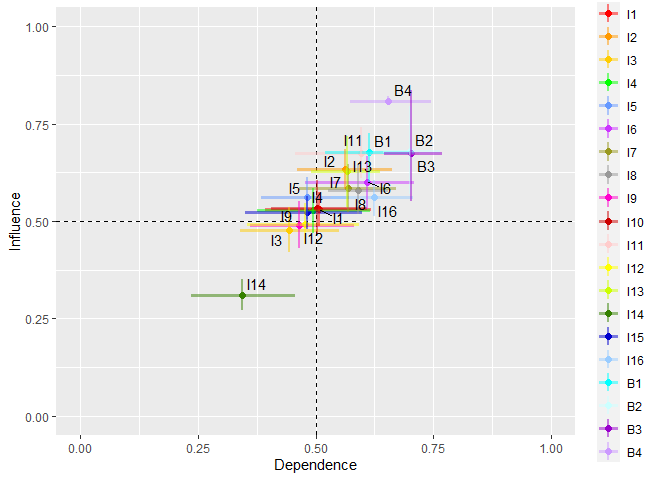
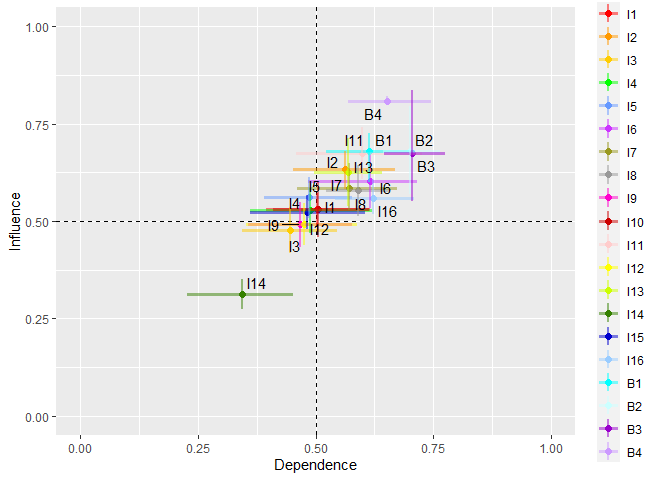
Update

Changed region(s): [[0.375, 0.2812, 0.625, 0.5312], [0.2812, 0.5625, 0.4375, 0.625], [0.5312, 0.1562, 0.625, 0.25]]

diff --git a/README.md b/README.md
@@ -141,16 +141,16 @@ The result obtained is a data.frame of 312 rows. The first ten items are display
 ``` r
 result$DirectEffects[1:10,]
 #>    From  To  Mean     UCI p.value
-#> 1    I1  I2 0.525 0.64500   0.611
-#> 2    I1  I3 0.450 0.59000   0.298
-#> 3    I1  I4 0.525 0.66000   0.626
+#> 1    I1  I2 0.525 0.65000   0.613
+#> 2    I1  I3 0.450 0.58500   0.319
+#> 3    I1  I4 0.525 0.66000   0.622
 #> 4    I1  I5 0.465 0.63500   0.379
-#> 5    I1  I6 0.645 0.80500   0.881
-#> 6    I1  I7 0.815 0.87500   1.000
-#> 7    I1  I8 0.580 0.69000   0.841
-#> 8    I1  I9 0.490 0.63500   0.464
-#> 9    I1 I10 0.560 0.71000   0.721
-#> 10   I1 I11 0.525 0.70025   0.572
+#> 5    I1  I6 0.645 0.80500   0.861
+#> 6    I1  I7 0.815 0.87000   1.000
+#> 7    I1  I8 0.580 0.69000   0.856
+#> 8    I1  I9 0.490 0.64000   0.467
+#> 9    I1 I10 0.560 0.71025   0.751
+#> 10   I1 I11 0.525 0.69500   0.584
 ```
 
 Any result that contains a NA value in the UCI and p.value fields indicates that all occurrences are equal or that the value is unique. Therefore, bootstrapping is not done.
@@ -178,17 +178,17 @@ Complete graphs only make use of the `CE` parameter. Here is an example:
 ``` r
 result <- directEffects(CE = CC, thr = 0.5, reps = 1000)
 result$DirectEffects[1:10,]
-#>    From  To  Mean     UCI p.value
-#> 1    I1  I2 0.525 0.65000   0.598
-#> 2    I1  I3 0.450 0.60000   0.294
-#> 3    I1  I4 0.525 0.67000   0.596
-#> 4    I1  I5 0.465 0.63500   0.362
-#> 5    I1  I6 0.645 0.80000   0.866
-#> 6    I1  I7 0.815 0.88000   1.000
-#> 7    I1  I8 0.580 0.69000   0.873
-#> 8    I1  I9 0.490 0.62525   0.449
-#> 9    I1 I10 0.560 0.71000   0.728
-#> 10   I1 I11 0.525 0.69500   0.598
+#>    From  To  Mean   UCI p.value
+#> 1    I1  I2 0.525 0.650   0.619
+#> 2    I1  I3 0.450 0.595   0.320
+#> 3    I1  I4 0.525 0.655   0.613
+#> 4    I1  I5 0.465 0.640   0.362
+#> 5    I1  I6 0.645 0.810   0.875
+#> 6    I1  I7 0.815 0.875   1.000
+#> 7    I1  I8 0.580 0.695   0.829
+#> 8    I1  I9 0.490 0.645   0.459
+#> 9    I1 I10 0.560 0.705   0.731
+#> 10   I1 I11 0.525 0.690   0.593
 ```
 
 ## bootMargin()
@@ -231,48 +231,48 @@ The results obtained are the data.frame `$byCause` and `$byEffect`, their values
 ``` r
 result$byCause
 #>    Var      Mean       LCI       UCI p.value
-#> 1   I1 0.5296587 0.4871316 0.5736908   0.160
-#> 2   I2 0.6336275 0.5826294 0.6836996   0.000
-#> 3   I3 0.4776501 0.4193165 0.5368480   0.530
-#> 4   I4 0.5291279 0.4687461 0.5842244   0.446
-#> 5   I5 0.5609690 0.5058377 0.6118772   0.046
-#> 6   I6 0.6010704 0.5315787 0.6674565   0.018
-#> 7   I7 0.5853538 0.5234510 0.6460322   0.012
-#> 8   I8 0.5791188 0.5170694 0.6428289   0.050
-#> 9   I9 0.4894543 0.4303507 0.5510777   0.748
-#> 10 I10 0.5331852 0.4656579 0.6038704   0.412
-#> 11 I11 0.6746935 0.6097968 0.7405329   0.000
-#> 12 I12 0.4917164 0.4393801 0.5446798   0.796
-#> 13 I13 0.6269254 0.5359386 0.7168465   0.024
-#> 14 I14 0.3098173 0.2723264 0.3506358   0.000
-#> 15 I15 0.5225843 0.4789515 0.5642797   0.308
-#> 16 I16 0.5600878 0.5133052 0.6061643   0.024
-#> 17  B1 0.6774633 0.6000000 0.7250000   0.556
-#> 18  B2 0.6784500 0.5700000 0.7950000   0.082
-#> 19  B3 0.6736267 0.5500000 0.8350000   0.066
-#> 20  B4 0.8083317 0.8000000 0.8200000   0.070
+#> 1   I1 0.5298835 0.4873077 0.5729064   0.206
+#> 2   I2 0.6330834 0.5828925 0.6794759   0.000
+#> 3   I3 0.4770524 0.4169472 0.5344554   0.518
+#> 4   I4 0.5279723 0.4687206 0.5854229   0.404
+#> 5   I5 0.5614070 0.5072646 0.6134444   0.056
+#> 6   I6 0.6016456 0.5325409 0.6687796   0.024
+#> 7   I7 0.5853354 0.5284503 0.6479247   0.012
+#> 8   I8 0.5791373 0.5115482 0.6435753   0.054
+#> 9   I9 0.4908606 0.4330477 0.5495088   0.670
+#> 10 I10 0.5302450 0.4583867 0.5999282   0.404
+#> 11 I11 0.6735549 0.6078158 0.7419006   0.000
+#> 12 I12 0.4925269 0.4391722 0.5458161   0.732
+#> 13 I13 0.6250923 0.5375921 0.7131689   0.020
+#> 14 I14 0.3119004 0.2728121 0.3516346   0.000
+#> 15 I15 0.5232475 0.4786997 0.5665680   0.306
+#> 16 I16 0.5593589 0.5164550 0.6070651   0.034
+#> 17  B1 0.6787567 0.6000000 0.7250000   0.592
+#> 18  B2 0.6791900 0.5700000 0.7950000   0.058
+#> 19  B3 0.6747667 0.5500000 0.8350000   0.062
+#> 20  B4 0.8082400 0.8000000 0.8200000   0.076
 result$byEffect
 #>    Var      Mean       LCI       UCI p.value
-#> 1   I1 0.5075417 0.3925282 0.6183331   0.982
-#> 2   I2 0.5622069 0.4604603 0.6623468   0.328
-#> 3   I3 0.4442393 0.3392406 0.5503828   0.336
-#> 4   I4 0.4951967 0.3758149 0.6159153   0.870
-#> 5   I5 0.4824950 0.3843434 0.5711512   0.774
-#> 6   I6 0.6083689 0.4775685 0.7079872   0.282
-#> 7   I7 0.5684678 0.4641199 0.6710205   0.242
-#> 8   I8 0.5898343 0.5264458 0.6546679   0.032
-#> 9   I9 0.4654669 0.3613262 0.5820310   0.572
-#> 10 I10 0.5030792 0.4061456 0.6093470   0.938
-#> 11 I11 0.5962588 0.4575687 0.7191798   0.302
-#> 12 I12 0.4773452 0.3538320 0.5918107   0.664
-#> 13 I13 0.5676367 0.4899987 0.6377000   0.130
-#> 14 I14 0.3447400 0.2356860 0.4566803   0.024
-#> 15 I15 0.4815728 0.3507238 0.5982825   0.812
-#> 16 I16 0.6230710 0.5334516 0.7064292   0.022
-#> 17  B1 0.6130150 0.5201887 0.7083659   0.046
-#> 18  B2 0.7000167 0.6426191 0.7645830   0.000
-#> 19  B3 0.7032001 0.6460223 0.7687717   0.000
-#> 20  B4 0.6538002 0.5732851 0.7450263   0.000
+#> 1   I1 0.5033065 0.3945180 0.6158436   0.896
+#> 2   I2 0.5624161 0.4512718 0.6680333   0.350
+#> 3   I3 0.4453445 0.3443170 0.5465340   0.338
+#> 4   I4 0.4893262 0.3614544 0.6190486   0.888
+#> 5   I5 0.4859450 0.3914812 0.5780506   0.734
+#> 6   I6 0.6151927 0.4841452 0.7160506   0.358
+#> 7   I7 0.5705967 0.4600705 0.6732417   0.276
+#> 8   I8 0.5893209 0.5219982 0.6577312   0.024
+#> 9   I9 0.4666999 0.3576875 0.5764869   0.528
+#> 10 I10 0.5055642 0.4094843 0.6130988   0.984
+#> 11 I11 0.5992489 0.4577890 0.7260888   0.296
+#> 12 I12 0.4748629 0.3532333 0.5877298   0.680
+#> 13 I13 0.5684225 0.4958404 0.6410167   0.120
+#> 14 I14 0.3441729 0.2268722 0.4518459   0.046
+#> 15 I15 0.4821794 0.3621143 0.6056737   0.828
+#> 16 I16 0.6226870 0.5404232 0.7095742   0.024
+#> 17  B1 0.6143246 0.5224696 0.7116300   0.046
+#> 18  B2 0.6998361 0.6431936 0.7643347   0.000
+#> 19  B3 0.7041616 0.6458357 0.7747451   0.000
+#> 20  B4 0.6524690 0.5691958 0.7453475   0.002
 ```
 
 The parameter `plot = TRUE` generates the Dependency-Influence plane based on the results obtained.
@@ -351,26 +351,26 @@ The results obtained are:
 ``` r
 result
 #>    Var     Median        LCI       UCI Method pValue
-#> 1   I1 14.5928488  9.8715512 20.224670  conpl   0.89
-#> 2   I2 14.3563883 12.6172877 15.563849  conpl   0.65
+#> 1   I1 14.5928488 12.4928851 20.576565  conpl   0.97
+#> 2   I2 14.3563883  6.6153607 15.427170  conpl   0.65
 #> 3   I3  8.1428571  1.1000000 14.100000 median     NA
-#> 4   I4  0.6304530  0.1306930  1.397222  conpl   0.52
-#> 5   I5  4.9851140  3.0056388  5.981637  conpl   0.17
-#> 6   I6 13.5131265  5.7195334 31.937296  conpl   0.23
-#> 7   I7 24.9878131  9.9608281 25.333211  conpl   0.67
-#> 8   I8  5.0604244  1.5839355 10.129009  conpl   0.74
-#> 9   I9  3.8250000  0.2678571  9.350000 median     NA
-#> 10 I10  0.4667305  0.1277128  8.081882  conpl   0.09
-#> 11 I11 21.2412358 20.9167213 21.493255  conpl   0.62
-#> 12 I12  7.3106674  3.0698641  7.558573  conpl   0.81
-#> 13 I13  2.3886553  0.5074877  6.643702  conpl   0.49
+#> 4   I4  0.6304530  0.1337368  2.910715  conpl   0.45
+#> 5   I5  4.9851140  2.9318518  5.941286  conpl   0.24
+#> 6   I6 13.5131265  5.8616250 31.937296  conpl   0.22
+#> 7   I7 24.9878131 19.8143301 25.683050  conpl   0.60
+#> 8   I8  5.0604244  1.6244802  6.777587  conpl   0.85
+#> 9   I9  2.2542738  0.2081032  2.711198  conpl   0.80
+#> 10 I10  0.4667305  0.1283341  3.932180  conpl   0.19
+#> 11 I11 21.2412358 15.5818361 21.623792  conpl   0.69
+#> 12 I12  7.3106674  3.0486692  7.612816  conpl   0.75
+#> 13 I13  2.3886553  0.5300378  9.334741  conpl   0.49
 #> 14 I14  0.0000000  0.0000000  0.000000 median     NA
-#> 15 I15  5.5000000  0.2500000  9.066667 median     NA
-#> 16 I16 10.0007456  3.5628253 14.304926  conpl   0.76
-#> 17  B1  3.5000000  1.4166667  4.500000 median     NA
-#> 18  B2  1.8957816  0.7231190  2.508396  conpl   0.48
-#> 19  B3  0.8308252  0.3419227  1.493232  conpl   0.42
-#> 20  B4  3.4524972  0.7423848  4.271460  conpl   0.90
+#> 15 I15  2.7760383  0.2033357  6.581992  conpl   0.81
+#> 16 I16 10.0007456  3.7618868 14.994930  conpl   0.74
+#> 17  B1  3.5000000  1.4166667 14.600000 median     NA
+#> 18  B2  1.8957816  0.7085054  2.321229  conpl   0.45
+#> 19  B3  0.8308252  0.3613726  1.469746  conpl   0.41
+#> 20  B4  3.4524972  0.7406074  4.232574  conpl   0.90
 ```
 
 If any variable cannot be calculated with `model = "conpl"` it will be calculated with `model = "median"`.
@@ -383,21 +383,21 @@ Complete graphs only make use of the `CE` parameter. Here is an example:
 result <- centrality(CE = CC, model = "median", reps = 500)
 result
 #>    Var    Median       LCI      UCI Method pValue
-#> 1   I1 20.000000 7.1666667 32.40385 median     NA
-#> 2   I2 14.500000 2.5000000 24.77778 median     NA
+#> 1   I1 20.000000 7.1666667 41.50000 median     NA
+#> 2   I2 14.500000 2.3899050 24.77778 median     NA
 #> 3   I3  6.851190 0.3250000 12.58333 median     NA
 #> 4   I4  2.079167 0.8333333 21.58333 median     NA
-#> 5   I5  7.833333 0.6666667  9.00000 median     NA
-#> 6   I6 28.391667 5.0168658 36.83333 median     NA
-#> 7   I7 11.500000 1.9849599 41.33333 median     NA
-#> 8   I8  7.416667 2.1666667 19.68810 median     NA
+#> 5   I5  7.833333 0.5500723  9.00000 median     NA
+#> 6   I6 28.391667 8.3380952 36.83333 median     NA
+#> 7   I7 11.500000 2.0000000 41.33333 median     NA
+#> 8   I8  7.416667 1.3569666 15.17738 median     NA
 #> 9   I9  5.200000 3.1500000 13.50000 median     NA
-#> 10 I10  4.250000 1.4752054 27.34524 median     NA
+#> 10 I10  4.250000 1.2500000 12.00000 median     NA
 #> 11 I11 22.000000 4.3333333 30.75000 median     NA
 #> 12 I12 12.516667 0.5000000 15.36667 median     NA
-#> 13 I13  6.208333 2.0000000 10.91667 median     NA
+#> 13 I13  6.208333 2.0000000 12.37500 median     NA
 #> 14 I14  0.000000 0.0000000  0.00000 median     NA
-#> 15 I15  6.958333 2.8750000 51.60417 median     NA
+#> 15 I15  6.958333 2.0000000 44.45833 median     NA
 #> 16 I16 16.166667 8.5769841 43.85417 median     NA
 ```
 
@@ -431,7 +431,7 @@ And the second is `$byExpert`, which contains the following information:
 -   **CC:** It allows for entering a three-dimensional incidence array, with each submatrix along the z-axis being a square incidence matrix. By default, `CC = NULL`.
 -   **CE:** It allows for entering a three-dimensional incidence array, with each submatrix along the z-axis being a square incidence matrix (for complete graphs) or a rectangular matrix (for chained bipartite graphs).
 -   **EE:** It allows for entering a three-dimensional incidence array, with each submatrix along the z-axis being a square incidence matrix. By default, `EE = NULL`.
--   **mode**: Specify the mode for the FE function. If the mode is set to 'Per-Expert,' the function will calculate using all experts. If the mode is set to 'Bootstrap,' the function will utilize this method. 
+-   **mode**: Specify the mode for the FE function. If the mode is set to 'Per-Expert,' the function will calculate using all experts. If the mode is set to 'Empirical,' the function will utilize this method. 
 -   **thr:** Defines the degree of truth in which incidence is considered significant within the range $$0,1$$. By default, `thr = 0.5`.
 -   **maxOrder:** Defines the limit of forgotten effects to calculate (if they exist). By default, `maxOrder = 2`.
 -   **reps:** Defines the number of bootstrap replicates. By default, `reps = 10000`.
@@ -460,12 +460,12 @@ The results of the forgotten effects of the second order are:
 ``` r
 head(result$boot$Order_2)
 #>   From Through_1 To Count  Mean LCI   UCI         SE
-#> 1   I1       I11 B1     2 0.800 0.6 0.800 0.14104983
-#> 2   I8        I7 B1     2 0.725 0.6 0.725 0.08902407
-#> 3  I14       I15 B2     2 0.725 0.7 0.725 0.01771733
+#> 1   I1       I11 B1     2 0.800 0.6 0.800 0.14006948
+#> 2   I8        I7 B1     2 0.725 0.6 0.725 0.08524818
+#> 3  I14       I15 B2     2 0.725 0.7 0.725 0.01749086
 #> 4  I10       I11 B3     2 0.600  NA    NA         NA
-#> 5  I14       I15 B3     2 0.725 0.7 0.725 0.01772178
-#> 6   I9        B3 B1     2 0.725 0.7 0.725 0.01755442
+#> 5  I14       I15 B3     2 0.725 0.7 0.750 0.01791411
+#> 6   I9        B3 B1     2 0.725 0.7 0.725 0.01739771
 ```
 
 Any result containing an NA value in the LCI, UCI, and SE fields indicates that all incidences are the same or that the value is unique. Therefore, bootstrapping is not done.
@@ -476,7 +476,7 @@ The `$byExpert` list indicates in which expert the forgotten effect is generated
 
 #### Example: Complete graphs
 
-Complete graphs only make use of the `CE` parameter. Here is an example:
+When working with complete graphs, it is necessary to specify either the `CC` and `CE` parameters or the `CE` and `EE` parameters (as they are equivalent). Here is an example:
 
 ``` r
 result <- FE(CC = CC, CE = CC, thr = 0.5,mode = "Empirical", maxOrder = 3, reps = 1000)
@@ -490,8 +490,16 @@ result <- FE(CC = CC, CE = CC, thr = 0.5,mode = "Empirical", maxOrder = 3, reps 
 #> [1] "Replica:  800"
 #> [1] "Replica:  900"
 #> [1] "Replica:  1000"
-head(result$boot$Order_2)
-#> NULL
+names(result)
+#> [1] "Order_2" "Order_3"
+head(result$Order_2)
+#>   From Through  To Count      Mean         SD
+#> 1  I10     I11 I14   211 0.6554004 0.08749096
+#> 2   I3      I6  I9   195 0.6414121 0.08521618
+#> 3   I8     I13 I10   193 0.7059817 0.10755392
+#> 4  I13      I6  I9   178 0.6580029 0.09083844
+#> 5  I14     I11  I4   178 0.6592578 0.09740236
+#> 6   I9      I8 I13   164 0.6812431 0.09688230
 ```
 
 ## References
